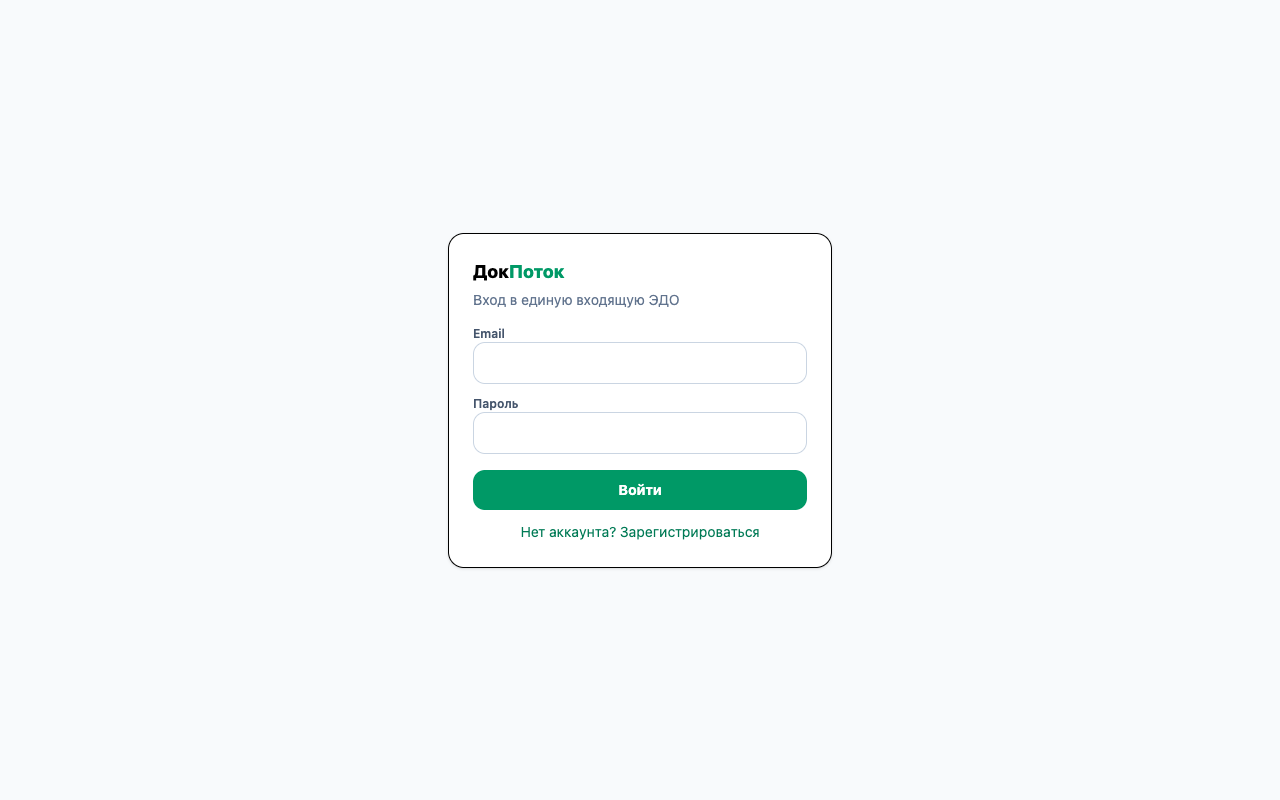
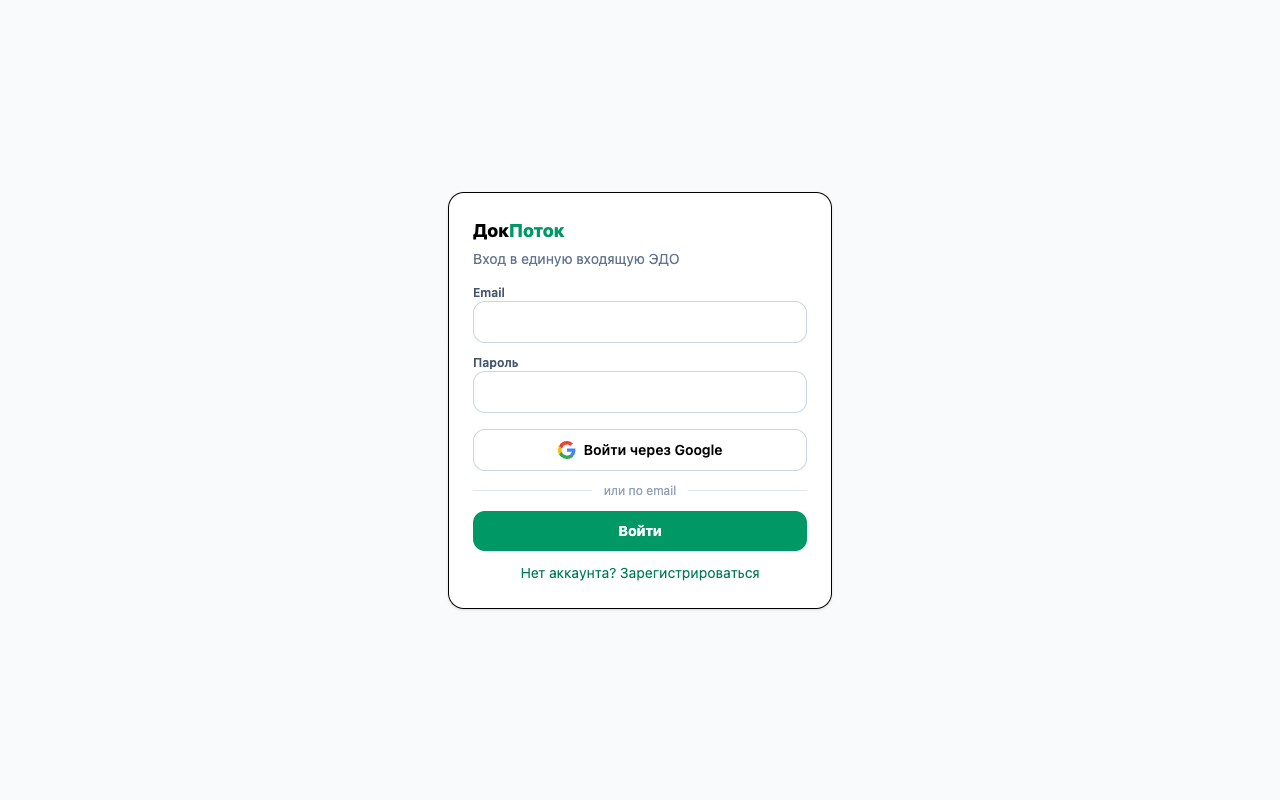
Документация: реальные результаты CI/деплоя/health-check, скриншоты production и прогона CI

Changed region(s): [[0.3438, 0.5312, 0.6562, 0.7188], [0.3438, 0.2812, 0.5312, 0.4688], [0.375, 0.5, 0.4062, 0.5312]]

diff --git a/integration_documentation.md b/integration_documentation.md
@@ -33,9 +33,12 @@
 
 Без секретов пайплайн тоже зелёный — приложение собирается в демо-режиме на мок-данных (это проверено локально: `npm run ci` без `.env.local`).
 
-### 1.3. Проверка на тестовом коммите
+### 1.3. Проверка на тестовых коммитах (факт)
 
-Порядок: push → вкладка Actions → job `quality` (~1 мин) → job `deploy` → ссылка на окружение `github-pages` в summary. Результат первого прогона фиксируется скриншотом в `docs/screenshots/ci-run.png` после публикации репозитория.
+- **Репозиторий:** https://github.com/topchiiaa-eng/docflow · **Приложение:** https://topchiiaa-eng.github.io/docflow/
+- **Прогон 1** (первый push, [run 35698452896](https://github.com/topchiiaa-eng/docflow/actions/runs/35698452896)): job `quality` ✅ (линт, prettier, типы, 26 тестов, аудит, сборка), job `deploy` ✗ — GitHub Pages ещё не был включён в настройках репозитория. Ожидаемая и полезная ошибка: показала, что деплой действительно зависит от настройки Pages, а не молча «проходит».
+- **Прогон 2** (коммит с правкой README, [run 35700624692](https://github.com/topchiiaa-eng/docflow/actions/runs/35700624692)): `quality` ✅ → `deploy` ✅ → smoke-check `GET https://topchiiaa-eng.github.io/docflow/ → 200`. Скриншот: `docs/screenshots/ci-run.png`.
+- **Проверка после деплоя:** пути ассетов `/docflow/assets/…` корректны (base из `VITE_BASE_PATH`), meta-CSP на месте; вход тестовым пользователем на опубликованном сайте → лента с реальными данными Supabase (`docs/screenshots/live-desktop.png`, `live-mobile.png` сняты с production-адреса).
 
 ### 1.4. Альтернатива: Vercel
 
@@ -104,8 +107,11 @@
 
 ```
 GET https://sfxjsknijnluvgymqizp.supabase.co/rest/v1/rpc/health?apikey=<publishable-key>
-→ {"status":"ok","service":"docflow-db","time":"…","checks":{"database":"ok","documents_total":N,"auth_users_reachable":true}}
+→ HTTP 200 {"status":"ok","service":"docflow-db","time":"2026-09-22T06:43:04Z",
+            "checks":{"database":"ok","documents_total":12,"auth_users_reachable":true}}   ← реальный ответ после миграции 3
 ```
+
+Проверки безопасности после миграции 3 (факт): анонимный `GET /rest/v1/documents` → **401** (было 200 с пустым списком); `POST /rpc/seed_demo_data` под пользователем → **403 permission denied for function**.
 
 Проверяет: доступность PostgreSQL (сам факт ответа), таблицу `documents` (RLS/права), схему `auth`. Не отдаёт ничего чувствительного — только счётчик.
 
